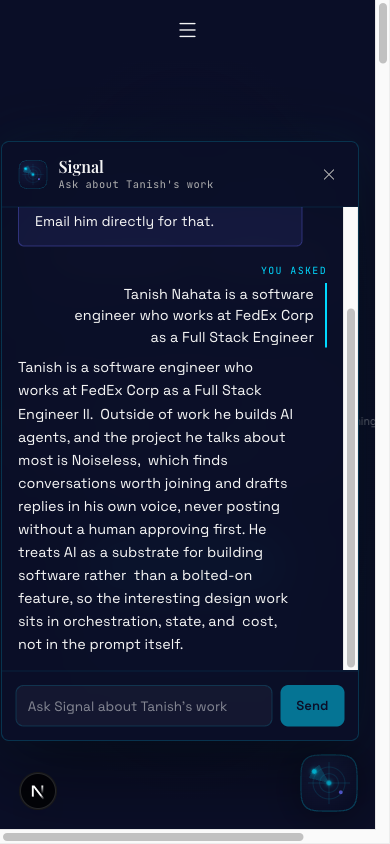
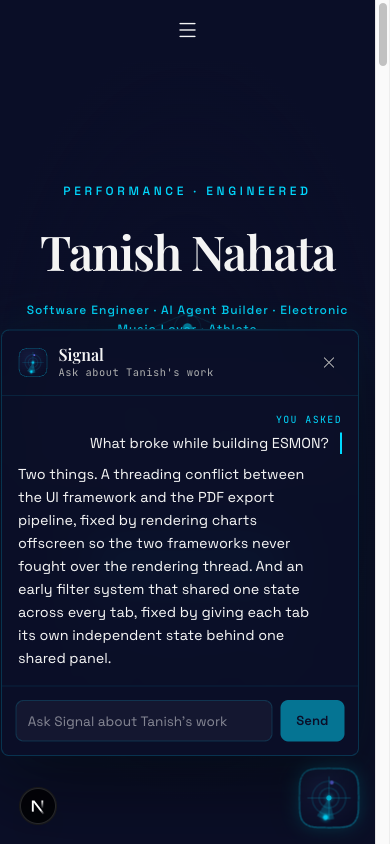
ask: move the panel onto useChat and recapture against real models
Rewrite useAskChat.ts on @ai-sdk/react's useChat with DefaultChatTransport,
now that the SDK is installed. prepareSendMessagesRequest rewrites the
outgoing body to the { question } shape app/api/ask/route.ts already parses,
so the route needed no changes. Transient data-status lands via onData;
non-transient data-refusal/data-gate land in message parts, matched with
type predicates.

Fix the panel covering the hero H1 at 1440 by capping its height in a
desktop media query so it stays clear of the hero's vertical band.

Raise the idle/hover Signal motif's line opacities and add a resting cyan
halo so it reads as an instrument rather than a dark button; thinking's
glow and accelerating orbit remain the strongest cue.

Recapture every fab-shots/ screenshot against the real corpus, Postgres,
and Anthropic/OpenAI models (throwaway docker container + db-setup +
ingest), using real visitor questions instead of corpus text pasted as a
question.

diff --git a/components/ask/useAskChat.ts b/components/ask/useAskChat.ts
@@ -1,141 +1,124 @@
 'use client';
 
-import { useCallback, useReducer, useRef } from 'react';
+import { useCallback, useMemo, useRef, useState } from 'react';
+import { useChat } from '@ai-sdk/react';
+import { DefaultChatTransport, type UIMessage } from 'ai';
 
-import type { AskStreamChunk, ConversationTurn, TurnResponse } from './types';
+import type { LockedReason } from '@/lib/ask/types';
+
+import type { ConversationTurn, TurnResponse } from './types';
 
 const GENERIC_ERROR = "Couldn't reach the agent. Try again in a moment.";
 
-interface AskChatState {
-  turns: ConversationTurn[];
-  busy: boolean;
-  pendingQuestion: string | null;
+/** The three `data-*` shapes `app/api/ask/route.ts` writes, keyed the way `useChat` expects (without the `data-` prefix). */
+type AskDataParts = {
+  status: { stage: 'received' | 'generating' };
+  refusal: { reason: LockedReason; text: string };
+  gate: { reason: Extract<LockedReason, 'sign_in_required' | 'rate_limited'>; resetsAt: string | null };
+};
+
+type AskUIMessage = UIMessage<unknown, AskDataParts>;
+type AskMessagePart = AskUIMessage['parts'][number];
+
+function isTextPart(part: AskMessagePart): part is Extract<AskMessagePart, { type: 'text' }> {
+  return part.type === 'text';
+}
+function isRefusalPart(part: AskMessagePart): part is Extract<AskMessagePart, { type: 'data-refusal' }> {
+  return part.type === 'data-refusal';
+}
+function isGatePart(part: AskMessagePart): part is Extract<AskMessagePart, { type: 'data-gate' }> {
+  return part.type === 'data-gate';
 }
 
-type Action =
-  | { type: 'submit'; id: string; question: string }
-  | { type: 'chunk'; id: string; chunk: AskStreamChunk }
-  | { type: 'stream-failed'; id: string; message: string }
-  | { type: 'clear-pending' };
-
-const initialState: AskChatState = { turns: [], busy: false, pendingQuestion: null };
-
-function updateTurn(turns: ConversationTurn[], id: string, update: (turn: ConversationTurn) => ConversationTurn): ConversationTurn[] {
-  return turns.map((turn) => (turn.id === id ? update(turn) : turn));
+/** Joins the text parts of a user message. `sendMessage({ text })` always produces exactly one. */
+function questionText(message: AskUIMessage): string {
+  return message.parts.filter(isTextPart).map((part) => part.text).join('');
 }
 
-function applyChunk(turn: ConversationTurn, chunk: AskStreamChunk): { turn: ConversationTurn; gated: boolean } {
-  switch (chunk.type) {
-    case 'data-status':
-      return { turn: { ...turn, stage: chunk.data.stage }, gated: false };
-    case 'text-start':
-      return { turn: { ...turn, response: { kind: 'answer', text: '', done: false } }, gated: false };
-    case 'text-delta': {
-      const current: TurnResponse = turn.response?.kind === 'answer' ? turn.response : { kind: 'answer', text: '', done: false };
-      return { turn: { ...turn, response: { ...current, text: current.text + chunk.delta } }, gated: false };
-    }
-    case 'text-end': {
-      const current: TurnResponse = turn.response?.kind === 'answer' ? turn.response : { kind: 'answer', text: '', done: false };
-      return { turn: { ...turn, stage: null, response: { ...current, done: true } }, gated: false };
-    }
-    case 'data-refusal':
-      return { turn: { ...turn, stage: null, response: { kind: 'refusal', ...chunk.data } }, gated: false };
-    case 'data-gate':
-      return { turn: { ...turn, stage: null, response: { kind: 'gate', ...chunk.data } }, gated: true };
-    case 'error':
-      return { turn: { ...turn, stage: null, response: { kind: 'error', message: chunk.errorText } }, gated: false };
-  }
-}
+/** Reads the response an assistant message resolved to. Undefined (no message yet) means still waiting. */
+function turnResponse(message: AskUIMessage | undefined): TurnResponse {
+  if (!message) return null;
 
-function reducer(state: AskChatState, action: Action): AskChatState {
-  switch (action.type) {
-    case 'submit': {
-      const turn: ConversationTurn = { id: action.id, question: action.question, response: null, stage: 'received' };
-      return { turns: [...state.turns, turn], busy: true, pendingQuestion: null };
-    }
-    case 'chunk': {
-      let gated = false;
-      const turns = updateTurn(state.turns, action.id, (turn) => {
-        const applied = applyChunk(turn, action.chunk);
-        gated = applied.gated;
-        return applied.turn;
-      });
-      const stillBusy = action.chunk.type !== 'text-end' && action.chunk.type !== 'data-refusal' && action.chunk.type !== 'data-gate' && action.chunk.type !== 'error';
-      return {
-        turns,
-        busy: stillBusy,
-        pendingQuestion: gated ? state.turns.find((t) => t.id === action.id)?.question ?? null : state.pendingQuestion,
-      };
-    }
-    case 'stream-failed': {
-      const turns = updateTurn(state.turns, action.id, (turn) => ({ ...turn, stage: null, response: { kind: 'error', message: action.message } }));
-      return { ...state, turns, busy: false };
-    }
-    case 'clear-pending':
-      return { ...state, pendingQuestion: null };
-  }
-}
+  const refusal = message.parts.find(isRefusalPart);
+  if (refusal) return { kind: 'refusal', ...refusal.data };
 
-/** Splits an SSE byte stream on blank-line boundaries and yields the JSON payload of each `data:` line. */
-async function* readSseEvents(body: ReadableStream<Uint8Array>): AsyncGenerator<string> {
-  const reader = body.getReader();
-  const decoder = new TextDecoder();
-  let buffer = '';
+  const gate = message.parts.find(isGatePart);
+  if (gate) return { kind: 'gate', ...gate.data };
 
-  for (;;) {
-    const { done, value } = await reader.read();
-    if (done) break;
-    buffer += decoder.decode(value, { stream: true });
+  const text = message.parts.find(isTextPart);
+  if (text) return { kind: 'answer', text: text.text, done: text.state !== 'streaming' };
 
-    let boundary = buffer.indexOf('\n\n');
-    while (boundary !== -1) {
-      const rawEvent = buffer.slice(0, boundary);
-      buffer = buffer.slice(boundary + 2);
-      const dataLine = rawEvent.split('\n').find((line) => line.startsWith('data:'));
-      if (dataLine) yield dataLine.slice('data:'.length).trim();
-      boundary = buffer.indexOf('\n\n');
-    }
-  }
+  return null;
 }
 
 /**
- * Drives POST /api/ask by hand: no `useChat` here because `@ai-sdk/react` isn't a project
- * dependency. Parses the same UI-message SSE wire format `DefaultChatTransport` would.
+ * Wraps `@ai-sdk/react`'s `useChat`, pointed at the same `POST /api/ask` the server already
+ * writes a standard UI message stream for (`docs/ask-agent.md`, Streaming). The route parses
+ * `{ question: string }`, not the SDK's default `{ id, messages, trigger }` body, so
+ * `prepareSendMessagesRequest` rewrites the outgoing request instead of changing the route.
+ *
+ * `data-status` ships `transient: true` from the server, so it never lands in `message.parts`;
+ * it only reaches `onData`, which is where `stage` is tracked here. `data-refusal` and
+ * `data-gate` are not transient and do land in parts, which `turnResponse` reads.
  */
 export function useAskChat() {
-  const [state, dispatch] = useReducer(reducer, initialState);
-  const nextId = useRef(0);
+  const [stage, setStage] = useState<'received' | 'generating' | null>(null);
+  const [pendingQuestion, setPendingQuestion] = useState<string | null>(null);
+  const lastQuestionRef = useRef('');
 
-  const ask = useCallback(async (question: string) => {
-    const id = `turn-${nextId.current++}`;
-    dispatch({ type: 'submit', id, question });
+  const [transport] = useState(
+    () =>
+      new DefaultChatTransport<AskUIMessage>({
+        api: '/api/ask',
+        prepareSendMessagesRequest: ({ messages }) => ({
+          body: { question: questionText(messages[messages.length - 1]) },
+        }),
+      }),
+  );
 
-    try {
-      const response = await fetch('/api/ask', {
-        method: 'POST',
-        headers: { 'content-type': 'application/json' },
-        body: JSON.stringify({ question }),
+  const { messages, status, sendMessage } = useChat<AskUIMessage>({
+    transport,
+    onData: (part) => {
+      if (part.type === 'data-status') setStage(part.data.stage);
+      if (part.type === 'data-gate') setPendingQuestion(lastQuestionRef.current);
+    },
+    onFinish: () => setStage(null),
+    onError: () => setStage(null),
+  });
+
+  const busy = status === 'submitted' || status === 'streaming';
+
+  const ask = useCallback(
+    async (question: string) => {
+      lastQuestionRef.current = question;
+      setPendingQuestion(null);
+      setStage('received');
+      await sendMessage({ text: question });
+    },
+    [sendMessage],
+  );
+
+  const clearPending = useCallback(() => setPendingQuestion(null), []);
+
+  const turns = useMemo<ConversationTurn[]>(() => {
+    const result: ConversationTurn[] = [];
+    for (let index = 0; index < messages.length; index += 1) {
+      const message = messages[index];
+      if (message.role !== 'user') continue;
+
+      const next = messages[index + 1];
+      const assistant = next?.role === 'assistant' ? next : undefined;
+      const isLastTurn = (assistant ? index + 1 : index) === messages.length - 1;
+
+      result.push({
+        id: message.id,
+        question: questionText(message),
+        response: isLastTurn && status === 'error' ? { kind: 'error', message: GENERIC_ERROR } : turnResponse(assistant),
+        stage: isLastTurn ? stage : null,
       });
-
-      if (!response.ok || !response.body) {
-        dispatch({ type: 'stream-failed', id, message: GENERIC_ERROR });
-        return;
-      }
-
-      for await (const payload of readSseEvents(response.body)) {
-        if (payload === '[DONE]') continue;
-        const chunk = JSON.parse(payload) as AskStreamChunk;
-        dispatch({ type: 'chunk', id, chunk });
-      }
-    } catch {
-      dispatch({ type: 'stream-failed', id, message: GENERIC_ERROR });
     }
-  }, []);
+    return result;
+  }, [messages, status, stage]);
 
-  const clearPending = useCallback(() => dispatch({ type: 'clear-pending' }), []);
-
-  const lastTurn = state.turns[state.turns.length - 1];
-  const stage = state.busy ? (lastTurn?.stage ?? 'received') : null;
-
-  return { turns: state.turns, busy: state.busy, stage, pendingQuestion: state.pendingQuestion, ask, clearPending };
+  return { turns, busy, stage, pendingQuestion, ask, clearPending };
 }

diff --git a/components/ask/SignalMotif.tsx b/components/ask/SignalMotif.tsx
@@ -41,6 +41,17 @@ const STAGE_VELOCITY: Record<Exclude<SignalStage, null>, number> = {
   generating: 5.4,
 };
 
+/**
+ * Line opacities per state, raised from the 0.25/0.14/0.16 idle floor this replaced so the rings
+ * and spokes read as an instrument at rest. idle/hover strokes clear WCAG 1.4.11's 3:1 floor.
+ */
+const EMPHASIS: Record<SignalState, { stroke: number; ring: number; spoke: number; wedge: number }> = {
+  idle: { stroke: 0.46, ring: 0.28, spoke: 0.3, wedge: 0.26 },
+  hover: { stroke: 0.56, ring: 0.34, spoke: 0.36, wedge: 0.3 },
+  open: { stroke: 0.4, ring: 0.24, spoke: 0.26, wedge: 0.24 },
+  thinking: { stroke: 0.6, ring: 0.36, spoke: 0.38, wedge: 0.32 },
+};
+
 function targetVelocity(state: SignalState, stage: SignalStage): number {
   if (state === 'thinking' && stage) return STAGE_VELOCITY[stage];
   return BASE_VELOCITY[state];
@@ -97,6 +108,7 @@ export default function SignalMotif({ size, state, stage = null, reducedMotion }
   const spokeAngles = [0, Math.PI / 2, Math.PI, (Math.PI * 3) / 2];
   const glowId = `signal-glow-${uid}`;
   const bgId = `signal-bg-${uid}`;
+  const emphasis = EMPHASIS[state];
 
   return (
     <svg
@@ -123,23 +135,23 @@ export default function SignalMotif({ size, state, stage = null, reducedMotion }
       <path
         d={SQUIRCLE_PATH}
         fill={`url(#${bgId})`}
-        stroke={thinking ? 'rgba(0,217,255,0.55)' : 'rgba(0,217,255,0.25)'}
+        stroke={`rgba(0,217,255,${emphasis.stroke})`}
         strokeWidth="1.25"
       />
 
       {RINGS.map((r) => (
-        <circle key={r} cx={CX} cy={CY} r={r} fill="none" stroke="rgba(0,217,255,0.14)" strokeWidth="1" />
+        <circle key={r} cx={CX} cy={CY} r={r} fill="none" stroke={`rgba(0,217,255,${emphasis.ring})`} strokeWidth="1" />
       ))}
 
       {spokeAngles.map((angle) => {
         const p = point(angle, SPOKE_R);
-        return <line key={angle} x1={CX} y1={CY} x2={p.x} y2={p.y} stroke="rgba(0,217,255,0.16)" strokeWidth="1" />;
+        return <line key={angle} x1={CX} y1={CY} x2={p.x} y2={p.y} stroke={`rgba(0,217,255,${emphasis.spoke})`} strokeWidth="1" />;
       })}
 
       <g ref={rotorRef} style={{ transformOrigin: '32px 32px' }}>
         <path
           d={`M${CX},${CY} L${point(-0.42, ORBIT_R + 2).x},${point(-0.42, ORBIT_R + 2).y} A${ORBIT_R + 2},${ORBIT_R + 2} 0 0 1 ${point(0.42, ORBIT_R + 2).x},${point(0.42, ORBIT_R + 2).y} Z`}
-          fill="rgba(0,217,255,0.22)"
+          fill={`rgba(0,217,255,${emphasis.wedge})`}
         />
         <circle cx={point(0, ORBIT_R).x} cy={point(0, ORBIT_R).y} r={thinking ? 3.2 : 2.6} fill="#00d9ff" filter={`url(#${glowId})`} />
         <circle cx={point(Math.PI, ORBIT_R - 4).x} cy={point(Math.PI, ORBIT_R - 4).y} r={2} fill="#6366f1" opacity={0.85} />

diff --git a/components/ask/AskFab.tsx b/components/ask/AskFab.tsx
@@ -36,6 +36,17 @@ export default function AskFab() {
 
   const fabState: SignalState = chat.busy ? 'thinking' : open ? 'open' : hovered ? 'hover' : 'idle';
 
+  /**
+   * A quiet cyan halo at rest, not just a black drop shadow, so the FAB reads as a lit instrument
+   * on the dark hero rather than a plain dark disc. Thinking's halo stays the brightest by far.
+   */
+  const FAB_GLOW: Record<SignalState, string> = {
+    idle: 'drop-shadow(0 0 9px rgba(0,217,255,0.22)) drop-shadow(0 4px 16px rgba(0,0,0,0.4))',
+    hover: 'drop-shadow(0 0 16px rgba(0,217,255,0.4)) drop-shadow(0 4px 18px rgba(0,0,0,0.42))',
+    open: 'drop-shadow(0 0 9px rgba(0,217,255,0.22)) drop-shadow(0 4px 16px rgba(0,0,0,0.4))',
+    thinking: 'drop-shadow(0 0 18px rgba(0,217,255,0.35))',
+  };
+
   return (
     <>
       <button
@@ -59,8 +70,9 @@ export default function AskFab() {
           border: 'none',
           background: 'transparent',
           cursor: 'pointer',
-          filter: chat.busy ? 'drop-shadow(0 0 18px rgba(0,217,255,0.35))' : 'drop-shadow(0 4px 20px rgba(0,0,0,0.45))',
-          transition: 'filter var(--transition-base)',
+          filter: FAB_GLOW[fabState],
+          transform: hovered && !chat.busy ? 'scale(1.05)' : 'scale(1)',
+          transition: 'filter var(--transition-base), transform var(--transition-base)',
         }}
       >
         <SignalMotif size={60} state={fabState} stage={chat.stage} reducedMotion={reducedMotion} />

diff --git a/components/ask/types.ts b/components/ask/types.ts
@@ -1,15 +1,5 @@
 import type { LockedReason } from '@/lib/ask/types';
 
-/** The four `data-*`/`error` chunk shapes `app/api/ask/route.ts` writes, plus the standard text parts. */
-export type AskStreamChunk =
-  | { type: 'text-start'; id: string }
-  | { type: 'text-delta'; id: string; delta: string }
-  | { type: 'text-end'; id: string }
-  | { type: 'data-status'; data: { stage: 'received' | 'generating' } }
-  | { type: 'data-refusal'; data: { reason: LockedReason; text: string } }
-  | { type: 'data-gate'; data: { reason: Extract<LockedReason, 'sign_in_required' | 'rate_limited'>; resetsAt: string | null } }
-  | { type: 'error'; errorText: string };
-
 /** One assistant response, in whichever shape the turn resolved to. Null while still awaiting the first part. */
 export type TurnResponse =
   | { kind: 'answer'; text: string; done: boolean }

diff --git a/components/ask/AskPanel.tsx b/components/ask/AskPanel.tsx
@@ -303,14 +303,13 @@ export default function AskPanel({ chat, pathname, reducedMotion, onClose, retur
       role="dialog"
       aria-modal="true"
       aria-labelledby={TITLE_ID}
-      className="ask-panel-enter"
+      className="ask-panel-enter ask-panel"
       style={{
         position: 'fixed',
         right: 'clamp(1rem, 4vw, 2rem)',
         bottom: 'calc(clamp(1rem, 4vw, 2rem) + 72px)',
         zIndex: 61,
         width: 'min(400px, calc(100vw - 2rem))',
-        maxHeight: 'min(600px, calc(100vh - 8rem))',
         display: 'flex',
         flexDirection: 'column',
         borderRadius: '8px',

diff --git a/app/globals.css b/app/globals.css
@@ -102,6 +102,17 @@ button:focus-visible {
   }
 }
 
+.ask-panel {
+  max-height: min(600px, calc(100vh - 8rem));
+}
+
+/* The home hero's H1 sits near 30-45vh; capping the panel below that keeps it clear on desktop. */
+@media (min-width: 1024px) {
+  .ask-panel {
+    max-height: min(480px, 40vh, calc(100vh - 8rem));
+  }
+}
+
 .ask-panel-enter {
   animation: askPanelEnter var(--transition-base) ease-out;
 }
